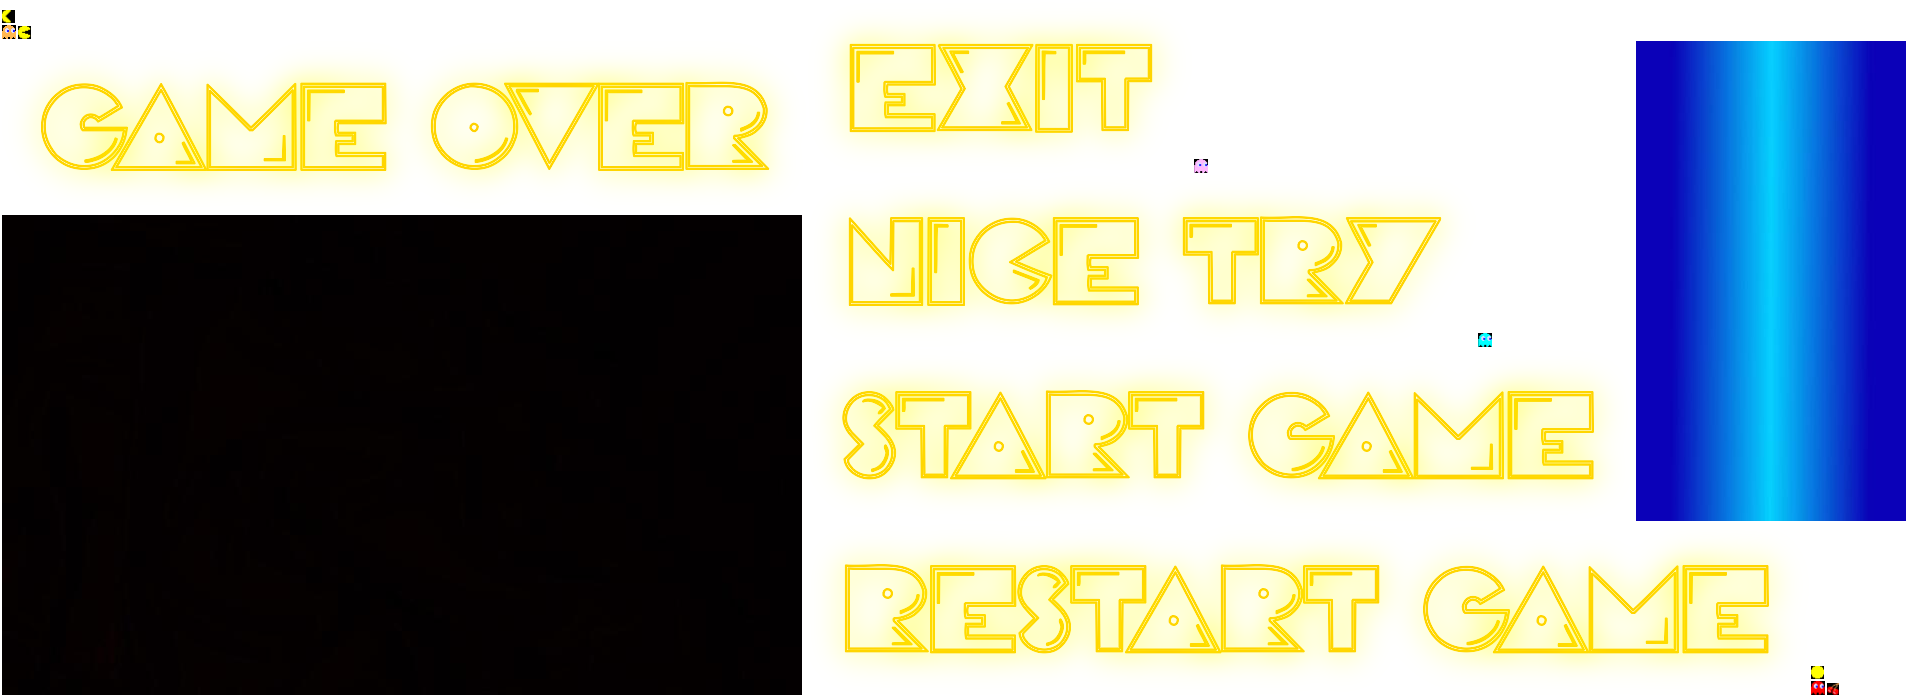
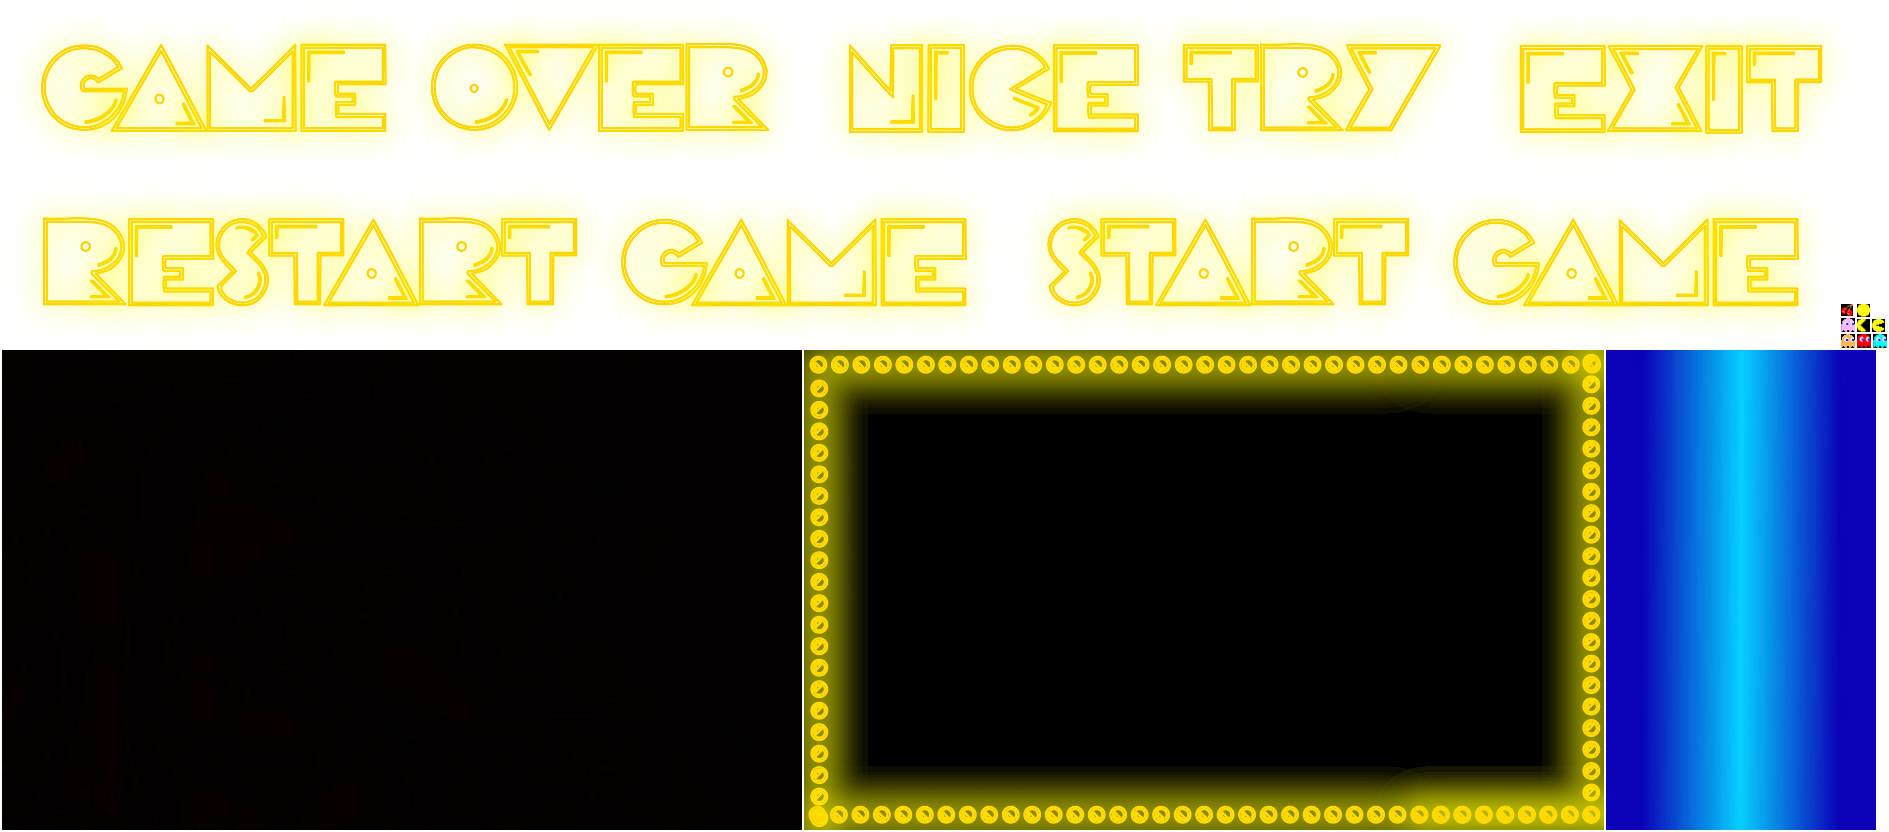
commit 24/02/2023 13:40

diff --git a/core/src/com/mygdx/game/actors/Ghost.java b/core/src/com/mygdx/game/actors/Ghost.java
@@ -24,15 +24,10 @@ public class Ghost extends Actor {
     private static final int STATE_ENABLETODEADTH = 2;
     private static final float SPEED = 1f;
 
-    private int state;
-
-    //Declaramos los atributos del PacMan
-    //private Animation<TextureRegion> pacManAnimation;
+    //Declaramos los atributos del Fantasma
     private TextureRegion texture;
     private Vector2 position;
     private int direction;
-
-    private float stateTime;
 
     //Creamos el mundo
     private World world;
@@ -40,7 +35,7 @@ public class Ghost extends Actor {
     //Creamos el cuerpo del PacMan y la Fisica
     private Body body;
     private Fixture fixture;
-
+    //Guardaremos la posicion antigua para que al chocar con algo, no vaya a la misma direccion
     private Vector2 posAntigua;
 
     public Ghost(World world, TextureRegion texture, Vector2 position, int direccion, String usuario) {
@@ -48,44 +43,22 @@ public class Ghost extends Actor {
         this.texture = texture;
         this.position = position;
         this.world = world;
-        this.stateTime = 0f;
-        this.state = STATE_NORMAL;
         this.direction = direccion;
-
         createBody();
         createFixture(usuario);
     }
 
-    public Vector2 getPosition() {
-        return fixture.getBody().getPosition();
-    }
-
-    public int getDirection() {
-        return direction;
-    }
-
+    //Mediante este metod le asignamos la direccion a la que tiene que ir
     public void setDirection(int direction) {
         this.direction = direction;
     }
 
-    public Vector2 getPosAntigua() {
-        return posAntigua;
-    }
-
-    public void setPosAntigua(Vector2 posAntigua) {
-        this.posAntigua = posAntigua;
-    }
-
     //Metodo para crear el cuerpo
     private void createBody() {
-        //Creamos el body
+        //Creamos el body asignandole una posicion y un tipo
         BodyDef bodyDef = new BodyDef();
-        //Le establecemos la posicion, la cual sera la misma de la del PacMan,
-        // ya que la cojemos del constructor
         bodyDef.position.set(this.position);
-        //Le asignamos un tipo
         bodyDef.type = BodyDef.BodyType.DynamicBody;
-        //Lo creamos
         this.body = this.world.createBody(bodyDef);
     }
 
@@ -94,18 +67,15 @@ public class Ghost extends Actor {
         //Como es un circulo, le damos un radio que sera el tamaño de la fisica
         CircleShape circle = new CircleShape();
         circle.setRadius(GHOST_HEIGHT / 2);
-
-        //PolygonShape poligon = new PolygonShape();
-        //poligon.setAsBox(GHOST_WIDTH, GHOST_HEIGHT);
-
         //Creamos la fisica
         this.fixture = this.body.createFixture(circle, 8);
         //Le asignamos a esta fisica un "nombre" para identificarlo
         this.fixture.setUserData(usuario);
-
         circle.dispose();
     }
 
+    //Estos metodos sirven para mover nuestro fantasma de un lugar a otro,
+    // y se usaran cuando el fantasma se teletransporte
     public void arriba(float xGhost) {
         this.body.setTransform(new Vector2(xGhost + 0.20f, WORLD_HEIGHT), 0);
     }
@@ -117,6 +87,7 @@ public class Ghost extends Actor {
     @Override
     public void act(float delta) {
 
+        //segun la direccion asignada
         switch (direction) {
             case -1:
                 moverAbajo();
@@ -138,17 +109,10 @@ public class Ghost extends Actor {
     @Override
     public void draw(Batch batch, float parentAlpha) {
 
-        //Establecemos la posicion de la fisica restandole la mitad del tamaño del dibujo del PacMan
+        //Establecemos la posicion de la fisica restandole la mitad del tamaño del dibujo del fantasma
         setPosition(body.getPosition().x - 0.2f, body.getPosition().y - 0.2f);
-        //Dibujamos el Pacman
+        //Dibujamos el Ghost
         batch.draw(texture, getX(), getY(), GHOST_WIDTH, GHOST_HEIGHT);
-        //batch.draw(this.pacManAnimation.getKeyFrame(stateTime, true), getX(), getY(), PACMAN_WIDTH,PACMAN_WIDTH);
-        //stateTime += Gdx.graphics.getDeltaTime();
-    }
-
-    public void dead() {
-        state = STATE_DEAD;
-        stateTime = 0f;
     }
 
     public void detach() {

diff --git a/core/src/com/mygdx/game/screens/GetReadyScreen.java b/core/src/com/mygdx/game/screens/GetReadyScreen.java
@@ -1,24 +1,10 @@
 package com.mygdx.game.screens;
 
-import static com.mygdx.game.extra.Utils.WORLD_HEIGHT;
-import static com.mygdx.game.extra.Utils.WORLD_WIDTH;
-
 import com.badlogic.gdx.Gdx;
 import com.badlogic.gdx.graphics.GL20;
-import com.badlogic.gdx.graphics.OrthographicCamera;
-import com.badlogic.gdx.graphics.Texture;
-import com.badlogic.gdx.graphics.g2d.BitmapFont;
 import com.badlogic.gdx.graphics.g2d.SpriteBatch;
 import com.badlogic.gdx.graphics.g2d.TextureRegion;
-import com.badlogic.gdx.math.Vector2;
-import com.badlogic.gdx.physics.box2d.Box2DDebugRenderer;
-import com.badlogic.gdx.physics.box2d.World;
-import com.badlogic.gdx.scenes.scene2d.Stage;
-import com.badlogic.gdx.scenes.scene2d.ui.Image;
-import com.badlogic.gdx.utils.viewport.FitViewport;
 import com.mygdx.game.MainGame;
-import com.mygdx.game.actors.Ghost;
-import com.mygdx.game.actors.PacMan;
 
 
 public class GetReadyScreen extends BaseScreen {
@@ -27,14 +13,15 @@ public class GetReadyScreen extends BaseScreen {
     private int scoreNumber;
 
     private SpriteBatch batch;
-    private TextureRegion textura;
+    private TextureRegion texturaStartGame;
+    private TextureRegion texturaFondo;
     private boolean touched;
-    private int height, width;
+    private float height, width;
 
     public GetReadyScreen(MainGame mainGame) {
         super(mainGame);
-        this.height = 200;
-        this.width = 300;
+        this.height = Gdx.graphics.getHeight()/3f;
+        this.width = Gdx.graphics.getWidth()/2f;
     }
 
     @Override
@@ -43,7 +30,8 @@ public class GetReadyScreen extends BaseScreen {
         Gdx.gl.glClear(GL20.GL_COLOR_BUFFER_BIT);
 
         batch.begin();
-        batch.draw(textura,Gdx.graphics.getWidth()/2 - (width/2), Gdx.graphics.getHeight()/2, width, height);
+        batch.draw(texturaFondo, 0,0, Gdx.graphics.getWidth(), Gdx.graphics.getHeight());
+        batch.draw(texturaStartGame,Gdx.graphics.getWidth()/2 - (width/2), Gdx.graphics.getHeight()/2.8f, width, height);
         batch.end();
         if (Gdx.input.justTouched() && !touched) {
             touched = true;
@@ -57,7 +45,8 @@ public class GetReadyScreen extends BaseScreen {
     @Override
     public void show() {
         batch = new SpriteBatch();
-        textura = mainGame.assetManager.getStartText();
+        texturaFondo = mainGame.assetManager.getBgStartFinish();
+        texturaStartGame = mainGame.assetManager.getStartText();
         touched = false;
     }
 

diff --git a/core/src/com/mygdx/game/actors/Cherry.java b/core/src/com/mygdx/game/actors/Cherry.java
@@ -44,28 +44,18 @@ public class Cherry extends Actor {
         createFixture(usuario);
     }
 
+    //Metodo para comprobar si esa cereza ya ha sido obtenida y asi no contarla de nuevo
     public boolean isEliminado() {
         return eliminado;
     }
 
-    public void setEliminado(boolean eliminado) {
-        this.eliminado = eliminado;
-    }
 
-    public Body getBody() {
-        return body;
-    }
-
-    //Metodo para crear el cuerpo
+    //Metodo para crear el cuerpo de la cereza
     private void createBody() {
-        //Creamos el body
+        //Creamos el body asignandole una posicion y un tipo
         BodyDef bodyDef = new BodyDef();
-        //Le establecemos la posicion, la cual sera la misma de la del PacMan,
-        // ya que la cojemos del constructor
         bodyDef.position.set(this.position);
-        //Le asignamos un tipo
         bodyDef.type = BodyDef.BodyType.StaticBody;
-        //Lo creamos
         this.body = this.world.createBody(bodyDef);
     }
 
@@ -77,10 +67,11 @@ public class Cherry extends Actor {
 
         //Creamos la fisica
         this.fixture = this.body.createFixture(poligon, 8);
+        //Estahblecems setSensor a true, para que no sea afectada por las fisicas
+        // pero que si detecte colisiones
         this.fixture.setSensor(true);
         //Le asignamos a esta fisica un "nombre" para identificarlo
         this.fixture.setUserData(usuario);
-
         poligon.dispose();
     }
 
@@ -90,12 +81,13 @@ public class Cherry extends Actor {
 
     @Override
     public void draw(Batch batch, float parentAlpha) {
-        //Establecemos la posicion de la fisica restandole la mitad del tamaño del dibujo del PacMan
+        //Establecemos la posicion de la fisica restandole la mitad del tamaño del dibujo de la cereza
         setPosition(body.getPosition().x - (CHERRY_WIDTH/2), body.getPosition().y - (CHERRY_HEIGHT/2));
         //Dibujamos la cereza
         batch.draw(texture, getX(), getY(), CHERRY_WIDTH, CHERRY_HEIGHT);
     }
 
+    //Eliminamos la cerezas del mundo y borramos la fisica
     public void detach() {
         this.body.destroyFixture(this.fixture);
         this.world.destroyBody(this.body);

diff --git a/core/src/com/mygdx/game/actors/PacMan.java b/core/src/com/mygdx/game/actors/PacMan.java
@@ -72,14 +72,10 @@ public class PacMan extends Actor {
 
     //Metodo para crear el cuerpo
     private void createBody(){
-        //Creamos el body
+        //Creamos el body asignandole una posicion y un tipo
         BodyDef bodyDef = new BodyDef();
-        //Le establecemos la posicion, la cual sera la misma de la del PacMan,
-        // ya que la cojemos del constructor
         bodyDef.position.set(this.position);
-        //Le asignamos un tipo
         bodyDef.type = BodyDef.BodyType.DynamicBody;
-        //Lo creamos
         this.body = this.world.createBody(bodyDef);
     }
 
@@ -93,7 +89,6 @@ public class PacMan extends Actor {
         this.fixture = this.body.createFixture(circle, 8);
         //Le asignamos a esta fisica un "nombre" para identificarlo
         this.fixture.setUserData(USER_PACMAN);
-
         circle.dispose();
     }
 
@@ -102,6 +97,8 @@ public class PacMan extends Actor {
         stateTime = 0f;
     }
 
+    //Estos metodos sirven para mover nuestro PacMan de un lugar a otro,
+    // y se usaran cuando el PacMan se teletransporte
     public void arriba(float xPacMan){
         this.body.setTransform(new Vector2(xPacMan + 0.20f,WORLD_HEIGHT), 0);
     }
@@ -113,14 +110,13 @@ public class PacMan extends Actor {
     @Override
     public void act(float delta) {
 
+        //Si se detecta una pulsacion en la pantalla
         if (Gdx.input.isTouched()) {
-            // Move object based on touch movement
+            //Detectamos la posicion de la pulsacion
             float deltaX = Gdx.input.getDeltaX();
             float deltaY = Gdx.input.getDeltaY();
 
-            System.out.println(deltaX + " - " + deltaY);
-
-
+            //Dependiendo de los valores de la pulsacion se le asignara una direccion
             if (deltaX > 0 && deltaY > -5 && deltaY < 15){
                 direccion = 1;
             }
@@ -137,7 +133,7 @@ public class PacMan extends Actor {
                 direccion = 2;
             }
 
-
+            //Dependiendo de la direccion recibida se moveran hacia una direccion determinada
             switch (direccion) {
                 case -1:
                     this.body.setLinearVelocity(-1f, 0f);

diff --git a/core/src/com/mygdx/game/extra/AssetMan.java b/core/src/com/mygdx/game/extra/AssetMan.java
@@ -2,6 +2,7 @@ package com.mygdx.game.extra;
 
 import static com.mygdx.game.extra.Utils.ATLAS_MAP;
 import static com.mygdx.game.extra.Utils.BACKGROUND_IMAGE;
+import static com.mygdx.game.extra.Utils.BACKGROUND_SF;
 import static com.mygdx.game.extra.Utils.CHERRY;
 import static com.mygdx.game.extra.Utils.DEADSOUND;
 import static com.mygdx.game.extra.Utils.EATCHERRY;
@@ -53,6 +54,7 @@ public class AssetMan {
     public TextureRegion getBackground(){
         return this.textureAtlas.findRegion(BACKGROUND_IMAGE);
     }
+    public TextureRegion getBgStartFinish(){return this.textureAtlas.findRegion(BACKGROUND_SF);}
 
     //ANIMACIÓN PÁJARO
     public Animation<TextureRegion> getBirdAnimation(){

diff --git a/core/src/com/mygdx/game/extra/Utils.java b/core/src/com/mygdx/game/extra/Utils.java
@@ -13,6 +13,7 @@ public class Utils {
     //Identificadores del Atlas
     public static final String ATLAS_MAP = "PMAtlas";
     public static final String BACKGROUND_IMAGE = "fondo";
+    public static final String BACKGROUND_SF = "fondoJuego";
     public static final String PACMAN1 = "PacMan01";
     public static final String PACMAN2 = "PacMan02";
     public static final String PACMAN3 = "PacMan03";
